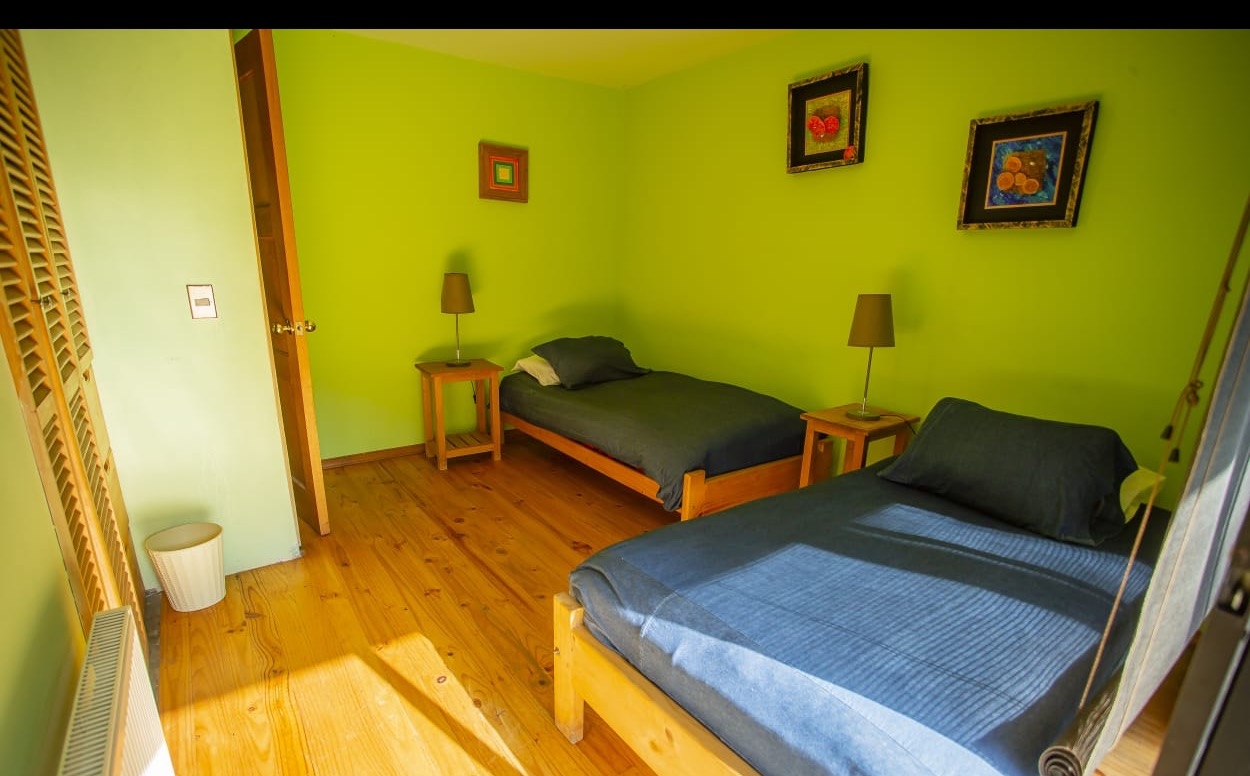
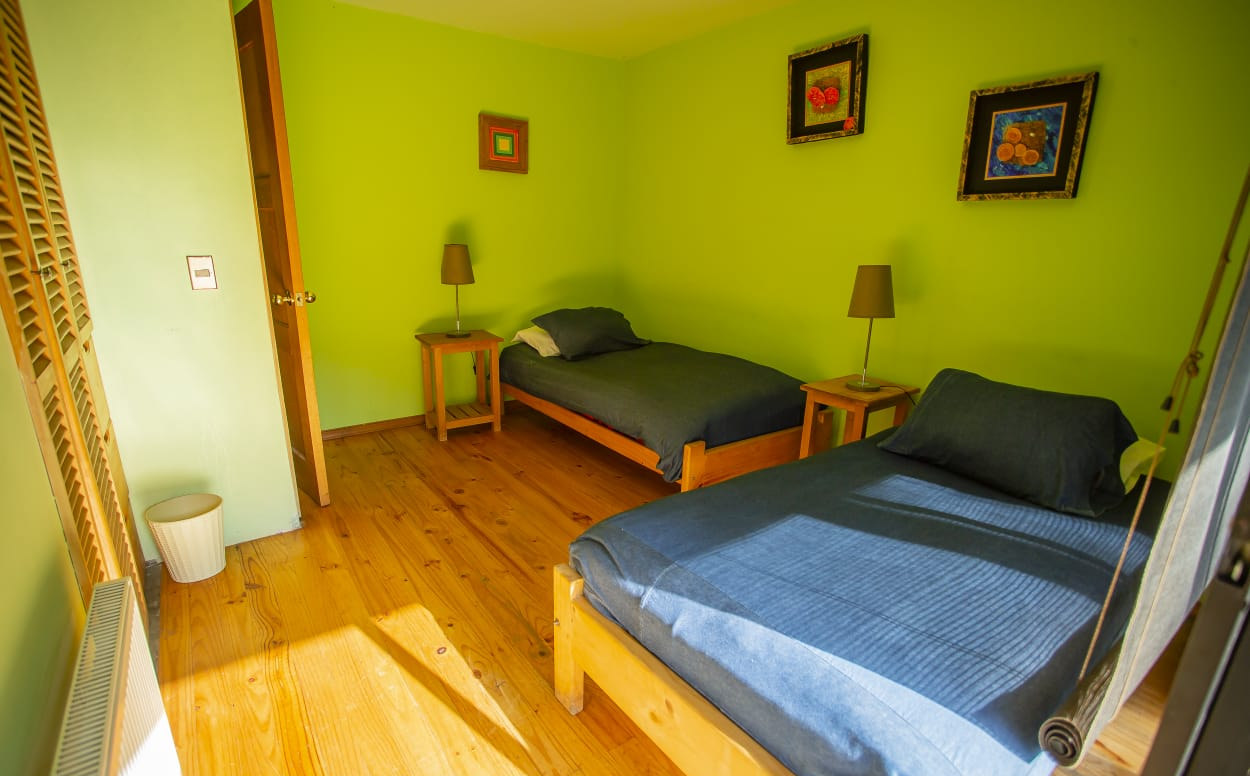
Quitar la banda negra de las fotos y arreglar el titulo de las tarjetas
Las nueve fotos se publicaron con 29 filas negras arriba. La causa: sips
-c recorta desde el centro, y el offset negativo con que lo compensaba
empujaba la ventana fuera del borde superior; en vez de fallar, sips
rellena con negro. Mi verificacion miro solo el borde inferior, asi que
el arnes daba verde con la banda puesta.

Se restauran los originales y se recortan con Pillow, que recorta por
coordenadas. El verificador ahora revisa los dos bordes: medir el alto
no basta.

Aparte, el titulo de las tarjetas de experiencia no declaraba color y
heredaba el verde profundo del texto base, sobre una fotografia. Pasa a
marfil con sombra, y el degradado de la tarjeta cierra mas firme abajo,
que es donde va el texto.

diff --git a/css/components.css b/css/components.css
@@ -771,8 +771,9 @@
   inset: 0;
   background: linear-gradient(
     180deg,
-    rgba(29, 42, 34, 0) 0%,
-    rgba(29, 42, 34, 0.7) 100%
+    rgba(29, 42, 34, 0) 35%,
+    rgba(29, 42, 34, 0.55) 65%,
+    rgba(29, 42, 34, 0.88) 100%
   );
   transition: background var(--duration-slow) var(--ease-out);
 }
@@ -814,10 +815,18 @@
   border-radius: var(--radius-sm);
 }
 
+/* El titulo va sobre la foto, encima del degradado: sin color propio
+   heredaba el verde profundo del texto base y quedaba ilegible. */
+.card-experience__content,
+.card-experience__title {
+  color: var(--text-inverse);
+  text-shadow: 0 1px 3px rgba(29, 42, 34, 0.55);
+}
+
 .card-experience__title {
   font-family: var(--font-display);
   font-size: var(--text-2xl);
-  font-weight: var(--font-weight-regular);
+  font-weight: var(--font-weight-semibold);
   margin: 0;
 }
 

diff --git a/tools/prep-images.py b/tools/prep-images.py
@@ -1,0 +1,93 @@
+#!/usr/bin/env python3
+"""Recorta la marca de agua "MP" del borde inferior de las fotos.
+
+Reemplaza al recorte con `sips`, que resulto ser una trampa: `sips -c`
+recorta desde el CENTRO, y compensar con un offset negativo empuja la
+ventana fuera del borde superior. En vez de fallar, sips RELLENA con
+negro: las nueve fotos quedaron con 29 filas negras arriba y asi se
+publicaron. Pillow recorta por coordenadas y no inventa pixeles.
+
+La lista de archivos vive en tools/imagenes-con-marca.txt, compartida
+con el verificador.
+
+Idempotente: una foto que ya mide el alto objetivo no se vuelve a tocar.
+El recorte sobrescribe el original y el respaldo es git, asi que no lo
+corras con cambios sin commitear en images/.
+
+Uso: python3 tools/prep-images.py
+"""
+import pathlib
+import sys
+
+from PIL import Image
+
+RAIZ = pathlib.Path(__file__).resolve().parent.parent
+LISTA = RAIZ / "tools" / "imagenes-con-marca.txt"
+ALTO_OBJETIVO = 776   # 1250x834 menos el 7% inferior, donde va la marca
+NEGRO = 24            # umbral para considerar una fila "negra"
+
+
+def archivos():
+    for linea in LISTA.read_text().splitlines():
+        linea = linea.strip()
+        if linea and not linea.startswith("#"):
+            yield RAIZ / "images" / f"{linea}.jpg"
+
+
+def filas_negras(im, desde_arriba=True):
+    """Cuenta filas totalmente oscuras en un borde. Detecta relleno."""
+    w, h = im.size
+    paso = max(1, w // 40)
+    rango = range(h) if desde_arriba else range(h - 1, -1, -1)
+    n = 0
+    for y in rango:
+        fila = [im.getpixel((x, y)) for x in range(0, w, paso)]
+        if max(max(p) for p in fila) < NEGRO:
+            n += 1
+        else:
+            break
+    return n
+
+
+def main():
+    if not LISTA.exists():
+        print(f"falta {LISTA}", file=sys.stderr)
+        return 1
+
+    problemas = []
+    for ruta in archivos():
+        if not ruta.exists():
+            print(f"  omitido, no existe: {ruta.name}")
+            continue
+
+        im = Image.open(ruta).convert("RGB")
+        w, h = im.size
+
+        if h <= ALTO_OBJETIVO:
+            print(f"  ya recortada: {ruta.relative_to(RAIZ / 'images')} ({w}x{h})")
+        else:
+            # Anclado arriba: se descarta solo el borde inferior.
+            im = im.crop((0, 0, w, ALTO_OBJETIVO))
+            im.save(ruta, quality=88, subsampling=0)
+            print(f"  recortada: {ruta.relative_to(RAIZ / 'images')} ({w}x{h} -> {w}x{ALTO_OBJETIVO})")
+
+        # Se revisan LOS DOS bordes. Mirar solo el de abajo fue justamente
+        # lo que dejo pasar el relleno negro de arriba.
+        control = Image.open(ruta).convert("RGB")
+        arriba = filas_negras(control, True)
+        abajo = filas_negras(control, False)
+        if arriba or abajo:
+            problemas.append(f"{ruta.name}: {arriba} filas negras arriba, {abajo} abajo")
+
+    print()
+    if problemas:
+        print("Hay bordes rellenos con negro:")
+        for x in problemas:
+            print(f"  {x}")
+        return 1
+    print("OK — sin bordes negros en ninguna")
+    return 0
+
+
+if __name__ == "__main__":
+    sys.exit(main())

diff --git a/docs/marca.md b/docs/marca.md
@@ -89,15 +89,15 @@ regla es que nunca dominen una pantalla — valen dentro de una tarjeta o media
 columna, nunca como hero. Son la primera prioridad de reemplazo.
 
 Al llegar fotos nuevas: reemplaza el original en `images/` y corre
-`./tools/prep-images.sh`. Es idempotente. Los contenedores tienen `aspect-ratio`
-fijo, así que cambiar una foto no mueve el layout.
+`python3 tools/prep-images.py`. Es idempotente. Los contenedores tienen
+`aspect-ratio` fijo, así que cambiar una foto no mueve el layout.
 
-`tools/prep-images.sh --variantes` genera además versiones de 640px y WebP. Hoy
-no se generan por defecto porque ningún HTML las referencia.
-
-**Cuidado con `sips`:** `-c` recorta desde el **centro**, no desde arriba. Un
-recorte con offset 0 deja la mitad de la marca de agua abajo. El script ya
-compensa con un offset negativo; si escribes otro recorte, tenlo presente.
+**No uses `sips` para recortar.** `sips -c` recorta desde el **centro**, y
+compensar con un offset negativo empuja la ventana fuera del borde superior:
+en vez de fallar, **rellena con negro**. Así se publicaron las nueve fotos con
+29 filas negras arriba, con la altura correcta y el verificador en verde,
+porque solo se medía el alto. `prep-images.py` usa Pillow, que recorta por
+coordenadas y no inventa píxeles, y revisa **los dos bordes** al terminar.
 
 ## Lo que el arnés NO cubre
 
